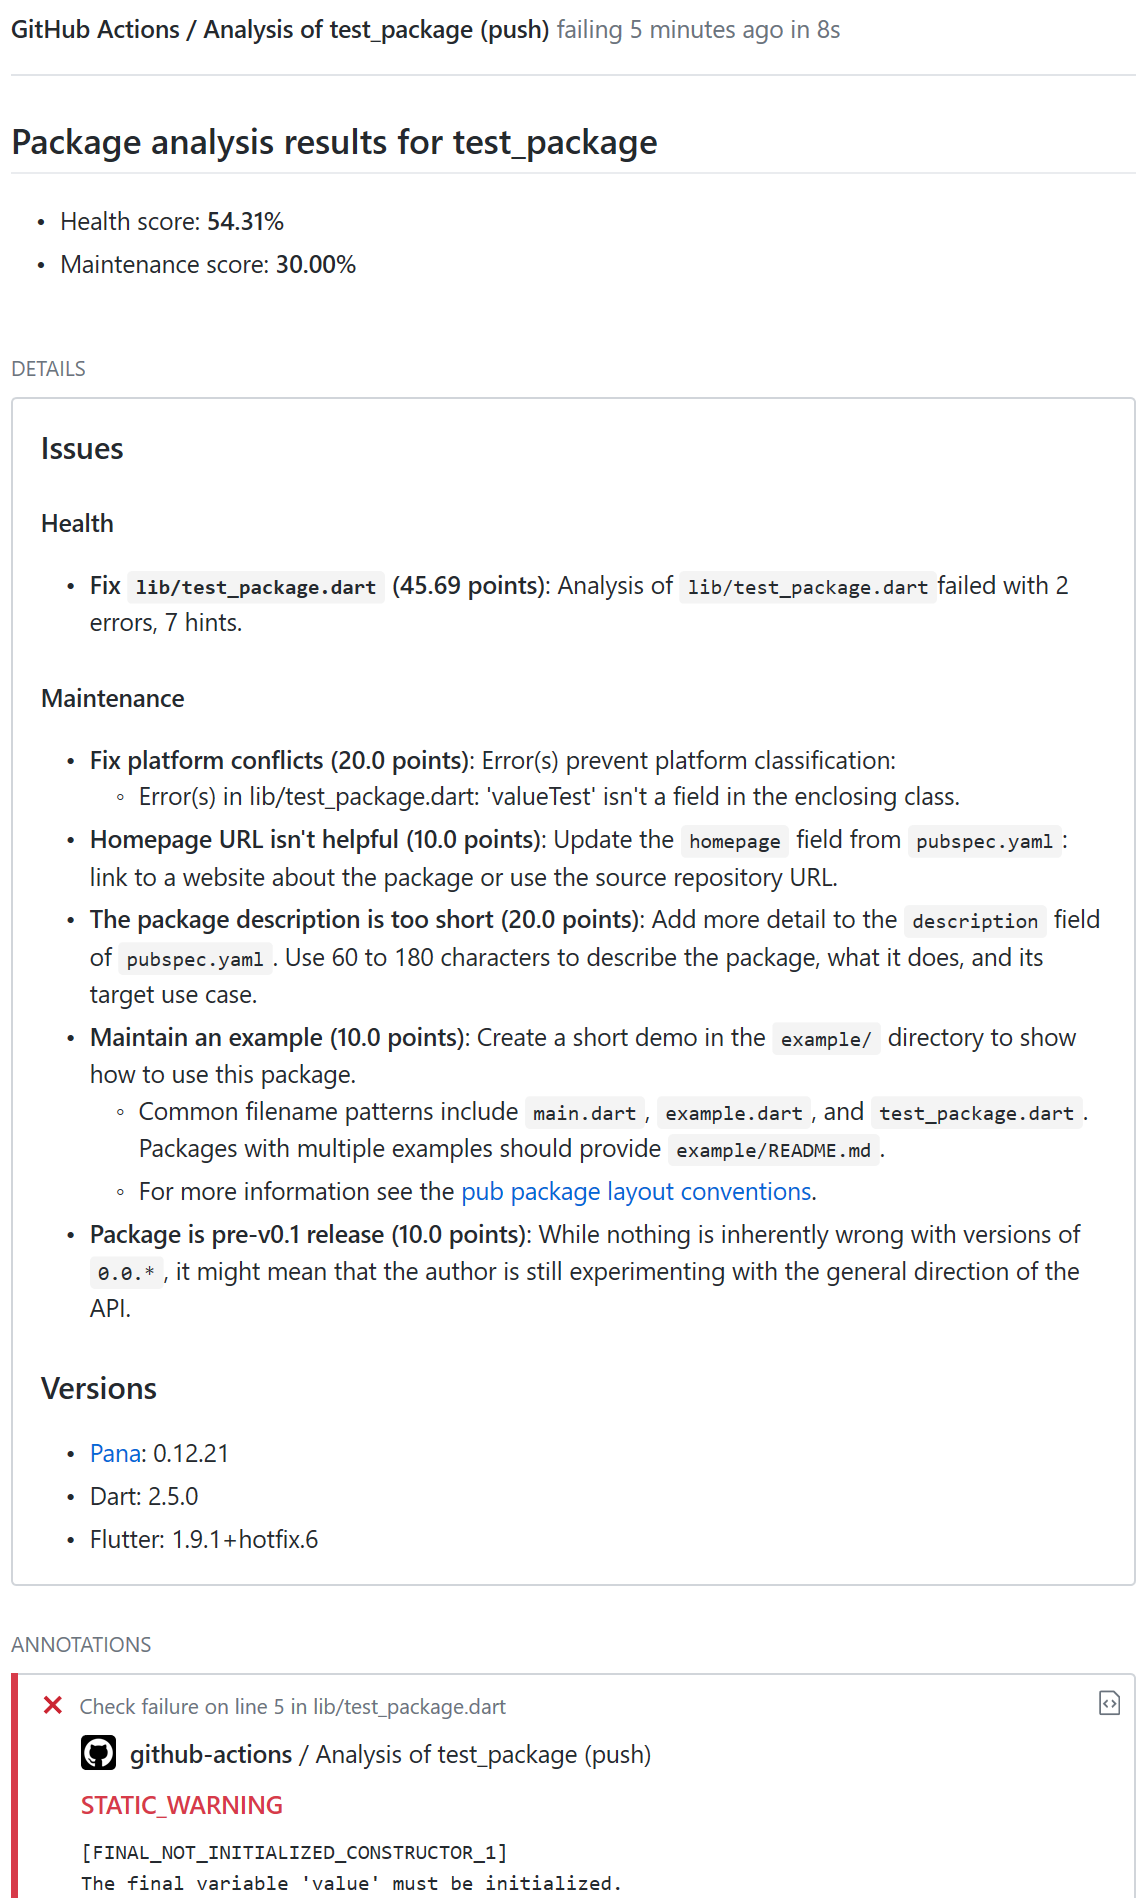
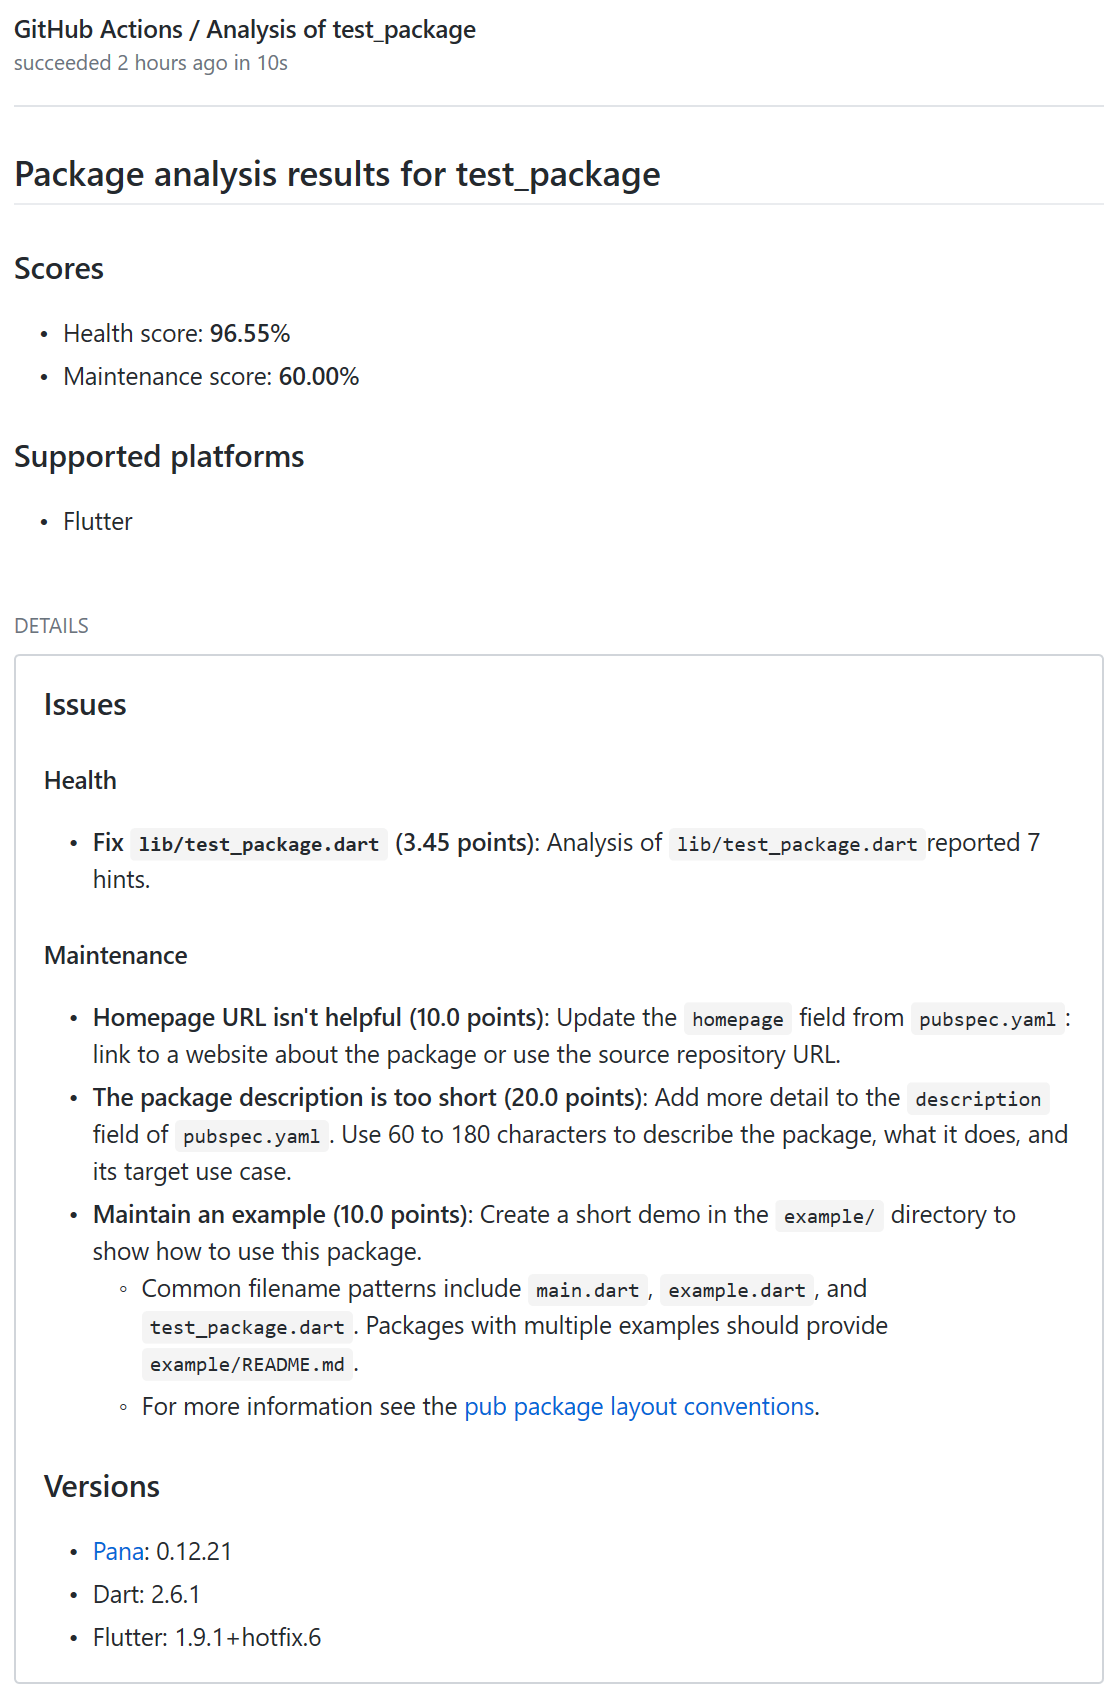
Display supported platforms in output

diff --git a/app/lib/result.dart b/app/lib/result.dart
@@ -67,6 +67,7 @@ class Result {
   final List<Suggestion> healthSuggestions;
   final List<Suggestion> maintenanceSuggestions;
   final List<Annotation> annotations;
+  final List<String> supportedPlatforms;
 
   Result._({
     @required this.packageName,
@@ -80,6 +81,7 @@ class Result {
     @required this.dartSdkInFlutterVersion,
     @required this.dartSdkVersion,
     @required this.flutterVersion,
+    @required this.supportedPlatforms,
   });
 
   factory Result.fromOutput(Map<String, dynamic> output) {
@@ -97,6 +99,7 @@ class Result {
     final List<Suggestion> maintenanceSuggestions = <Suggestion>[];
     final List<Suggestion> healthSuggestions = <Suggestion>[];
     final List<Annotation> lineSuggestions = <Annotation>[];
+    final List<String> supportedPlatforms = <String>[];
 
     final Map<String, void Function(List<Suggestion>)> categories = {
       'health': (suggestions) => healthSuggestions.addAll(suggestions),
@@ -126,7 +129,7 @@ class Result {
 
     if (output.containsKey('dartFiles')) {
       final Map<String, dynamic> dartFiles = output['dartFiles'];
-      for (final String file in dartFiles.keys) {
+      for (final file in dartFiles.keys) {
         final Map<String, dynamic> details = dartFiles[file];
         if (details.containsKey('codeProblems')) {
           final List<Map<String, dynamic>> problems =
@@ -135,6 +138,18 @@ class Result {
           lineSuggestions.addAll(problems.map(
             (jsonObj) => Annotation._fromJSON(jsonObj),
           ));
+        }
+      }
+    }
+
+    if (output.containsKey('platform') && output['platform'] != null) {
+      final Map<String, dynamic> platforms = output['platform'];
+      if (platforms.containsKey('uses')) {
+        final Map<String, dynamic> used = platforms['uses'];
+        for (final p in used.keys) {
+          if (const ['allowed', 'used'].contains(used[p])) {
+            supportedPlatforms.add(p[0].toUpperCase() + p.substring(1));
+          }
         }
       }
     }
@@ -151,6 +166,7 @@ class Result {
       flutterVersion: flutterVersion,
       dartSdkInFlutterVersion: dartInFlutterVersion,
       dartSdkVersion: dartSdkVersion,
+      supportedPlatforms: supportedPlatforms,
     );
   }
 }

diff --git a/app/lib/github.dart b/app/lib/github.dart
@@ -131,9 +131,14 @@ String _buildSummary(Result result) =>
     (testing
         ? '**THIS ACTION HAS BEEN EXECUTED IN TEST MODE. THIS MODE IS NOT INTENDED FOR PRODUCTION USE.**\n'
         : '') +
-    '* Health score: **${result.healthScore.toStringAsFixed(2)}%**'
+    '### Scores'
+    '\n* Health score: **${result.healthScore.toStringAsFixed(2)}%**'
         '\n* Maintenance score: **${result.maintenanceScore.toStringAsFixed(2)}%**'
-        '\n\n*Note that 50% of the overall score of your package on the [Pub site](https://pub.dev/help) will be based on its popularity ; 30% on its health score ; and 20% on its maintenance score.*';
+        '\n\n*Note that 50% of the overall score of your package on the [Pub site](https://pub.dev/help) will be based on its popularity ; 30% on its health score ; and 20% on its maintenance score.*' +
+    (result.supportedPlatforms.isNotEmpty
+        ? '\n### Supported platforms' +
+            result.supportedPlatforms.map((p) => '\n* $p').join()
+        : '');
 
 String _buildText(Result result) {
   final Map<String, List<Suggestion>> suggestions = {
@@ -155,7 +160,10 @@ String _buildText(Result result) {
       '\n### Versions'
           '\n* [Pana](https://pub.dev/packages/pana): ${result.panaVersion}'
           '\n* Dart: ${result.dartSdkVersion}'
-          '\n* Flutter: ${result.flutterVersion}'; // with Dart ${result.dartSdkInFlutterVersion}'; // Useless as we use the Flutter command so this will be the same SDK
+          '\n* Flutter: ${result.flutterVersion}' +
+      (result.dartSdkVersion != result.dartSdkInFlutterVersion
+          ? ' with Dart ${result.dartSdkInFlutterVersion}'
+          : '');
 }
 
 String _stringSuggestion(Suggestion suggestion) {
